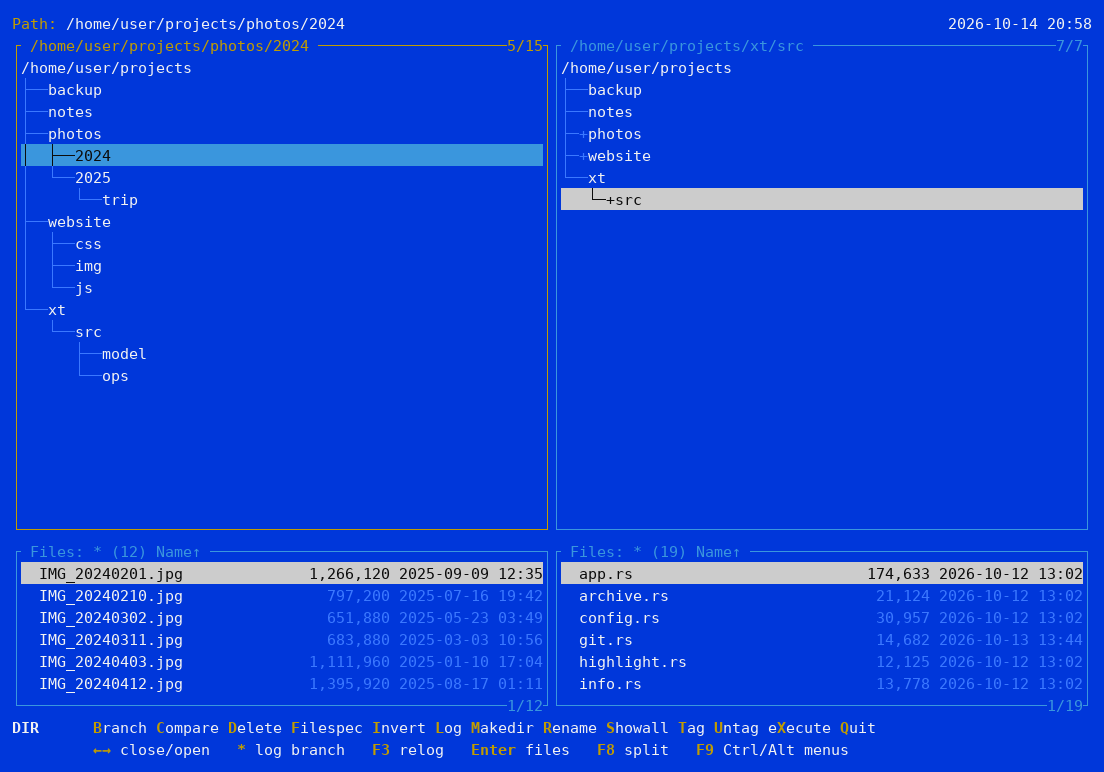
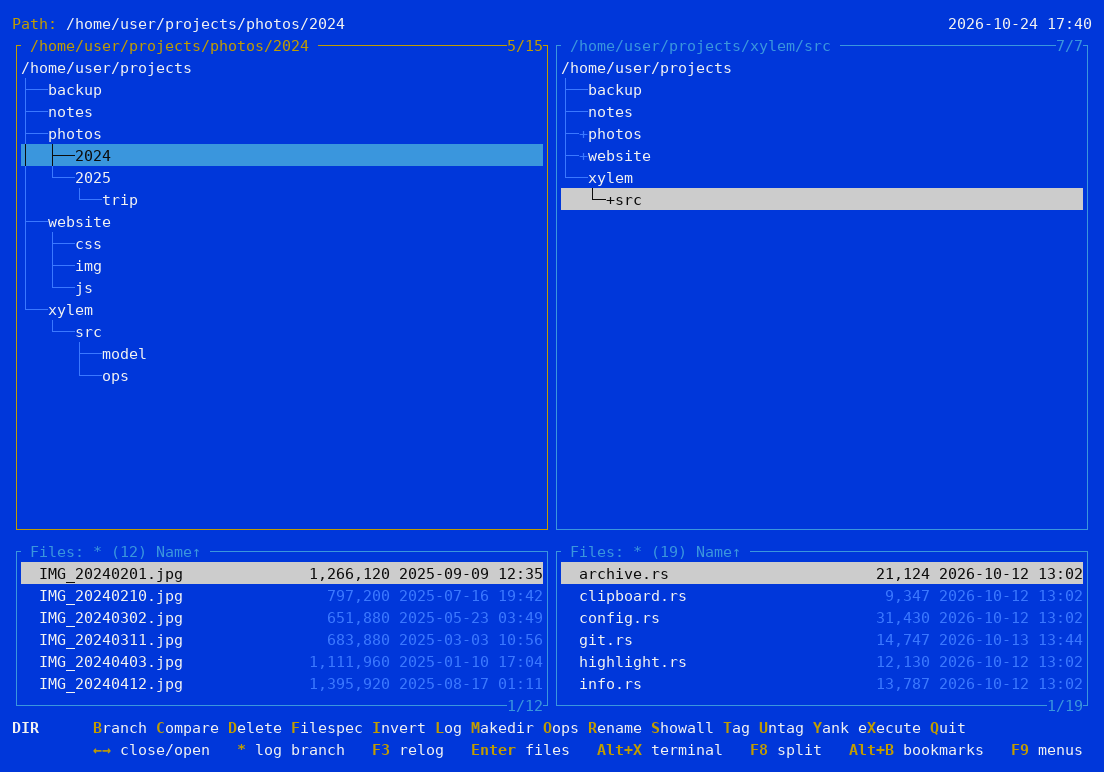
Screenshots and demo GIF: Xylem
The tools run xy, and the sample project is called xylem.

diff --git a/docs/screenshots/tools/shot.py b/docs/screenshots/tools/shot.py
@@ -1,7 +1,7 @@
-"""Runs xt in a pseudo-terminal, sends keys and saves the screen as a PNG,
+"""Runs Xylem in a pseudo-terminal, sends keys and saves the screen as a PNG,
 or, for OUT.gif, every step as a frame of an animation.
 
-Usage: shot.py OUT.png|OUT.gif XT ROOT [STEP...], where a step is:
+Usage: shot.py OUT.png|OUT.gif XY ROOT [STEP...], where a step is:
   KEYS            keys to send, with escapes (e.g. '\\x1bx' for Alt+X)
   type:TEXT       TEXT typed one character at a time (one frame each)
   send:KEYS       keys sent without a frame
@@ -32,14 +32,14 @@ DEFAULT_FG, DEFAULT_BG = "cccccc", "0c0c0c"
 FONT = "/usr/share/fonts/truetype/dejavu/DejaVuSansMono.ttf"
 BOLD = "/usr/share/fonts/truetype/dejavu/DejaVuSansMono-Bold.ttf"
 
-out, xt, root, steps = sys.argv[1], sys.argv[2], sys.argv[3], sys.argv[4:]
+out, xy, root, steps = sys.argv[1], sys.argv[2], sys.argv[3], sys.argv[4:]
 screen = pyte.Screen(COLS, ROWS)
 stream = pyte.ByteStream(screen)
 pid, fd = pty.fork()
 if pid == 0:
     os.environ["TERM"] = "xterm-256color"
     os.chdir(root)
-    os.execv(xt, [xt, root])
+    os.execv(xy, [xy, root])
 fcntl.ioctl(fd, termios.TIOCSWINSZ, struct.pack("HHHH", ROWS, COLS, 0, 0))
 
 
